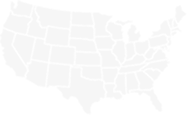
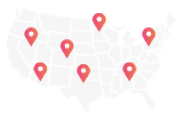
added block VIEW in LOGISTICS with 2 new block

diff --git a/index.html b/index.html
@@ -230,13 +230,13 @@
                             </div>
                         </div>
                     </div>
-                    <div class="pieChart">
+                    <section class="block">
                         <div class="chart__title">
                             <p>Revenue Per Hour</p>
                         </div>
-                        <div class="pieChart__mainContent">
-                            <div class="pieChart__circle">
-                                <div class="pieChart__content">
+                        <div class="block__mainContent">
+                            <div class="block__circle">
+                                <div class="block__content">
                                     $150
                                 </div>
                             </div>
@@ -245,7 +245,7 @@
                             <li class="statics__progress">1020</li>
                             <li class="statics__regression">1020</li>
                         </ul>
-                    </div>
+                    </section>
                 </div>
 
                 <!-- SYSTEM -->
@@ -334,6 +334,42 @@
                                         <p>1:30 AM</p></div>
                                 </li>
                             </ul>
+                        </div>
+
+                        <!-- VIEW -->
+                        <div class="view">
+                            <section class="block">
+                                <div class="chart__title">
+                                    <p>Progress</p>
+                                </div>
+                                <div class="block__mainContent">
+                                    <img src="./source/img/graph.png" alt="graph">
+                                </div>
+                                <div class="block__content">
+                                    $150,0000
+                                </div>
+                                <ul class="statics__dynamics">
+                                    <li class="statics__progress">1020</li>
+                                    <li class="statics__regression">1020</li>
+                                </ul>
+                            </section>
+                            <section class="block">
+                                <div class="chart__title">
+                                    <p>Shipments</p>
+                                </div>
+                                <div class="block__mainContent">
+                                    <img src="./source/img/map.png" alt="map">
+                                </div>
+                                <div class="block__item">
+                                    <div class="block__content">
+                                        $15,000
+                                    </div>
+                                    <ul class="statics__dynamics">
+                                        <li class="statics__progress">1020</li>
+                                        <li class="statics__regression">1020</li>
+                                    </ul>
+                                </div>
+                            </section>
                         </div>
                     </section>
                 </section>

diff --git a/source/style/main.css b/source/style/main.css
@@ -303,8 +303,8 @@ nav .nav__menu p {
   border-radius: 50%;
 }
 
-.pieChart {
-  width: 25%;
+.block {
+  width: 50%;
   display: -webkit-box;
   display: -ms-flexbox;
   display: flex;
@@ -323,7 +323,7 @@ nav .nav__menu p {
   padding: 20px;
 }
 
-.pieChart__mainContent {
+.block__mainContent {
   display: -webkit-box;
   display: -ms-flexbox;
   display: flex;
@@ -335,7 +335,7 @@ nav .nav__menu p {
   background-color: #ededed;
 }
 
-.pieChart__circle {
+.block__circle {
   display: -webkit-box;
   display: -ms-flexbox;
   display: flex;
@@ -352,10 +352,11 @@ nav .nav__menu p {
   background-color: #ffffff;
 }
 
-.pieChart__content {
+.block__content {
   color: #6a5bb4;
   font-size: 25px;
   font-weight: bold;
+  margin: 20px;
 }
 
 .system {
@@ -470,5 +471,31 @@ nav .nav__menu p {
 
 .todolist__item:nth-child(even) {
   background: #fcfcfc;
+}
+
+.view {
+  display: -webkit-box;
+  display: -ms-flexbox;
+  display: flex;
+}
+
+.view .block__mainContent {
+  border: none;
+}
+
+.view .block__item {
+  display: -webkit-box;
+  display: -ms-flexbox;
+  display: flex;
+  -webkit-box-align: center;
+      -ms-flex-align: center;
+          align-items: center;
+  width: 100%;
+  -ms-flex-pack: distribute;
+      justify-content: space-around;
+}
+
+.view .block__item .block__content {
+  color: #FD7858;
 }
 /*# sourceMappingURL=main.css.map */

diff --git a/source/scss/main.scss b/source/scss/main.scss
@@ -245,9 +245,9 @@ nav {
 }
 
 
-// PIECHART
-.pieChart {
-    width: 25%;
+// BLOCK
+.block {
+    width: 50%;
     display: flex;
     flex-direction: column;
     justify-content: space-between;
@@ -278,7 +278,8 @@ nav {
     &__content {
         color: #6a5bb4;
         font-size: 25px;
-        font-weight: bold; 
+        font-weight: bold;
+        margin: 20px;
     }
 }
 
@@ -382,3 +383,19 @@ nav {
 }
 
 
+// VIEW
+.view {
+    display: flex;
+    .block__mainContent {
+        border: none;
+    }
+    .block__item {
+        display: flex;
+        align-items: center;
+        width: 100%;
+        justify-content: space-around;
+        .block__content {
+            color: #FD7858;
+        }
+    }
+}
